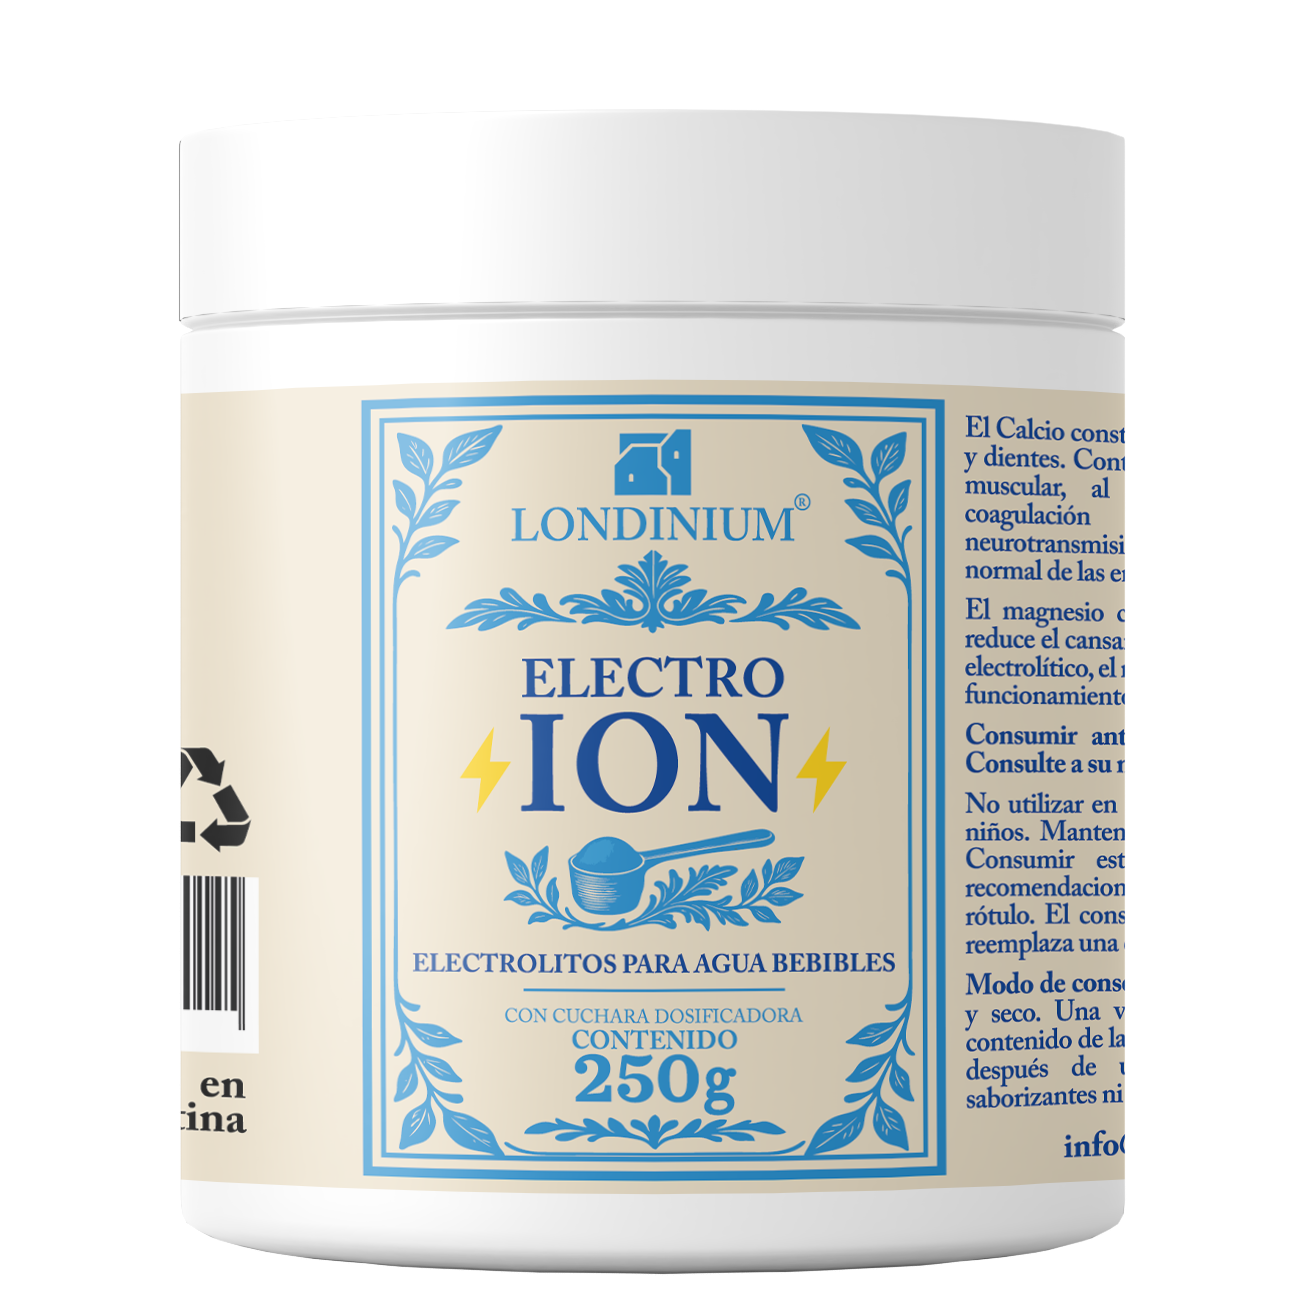
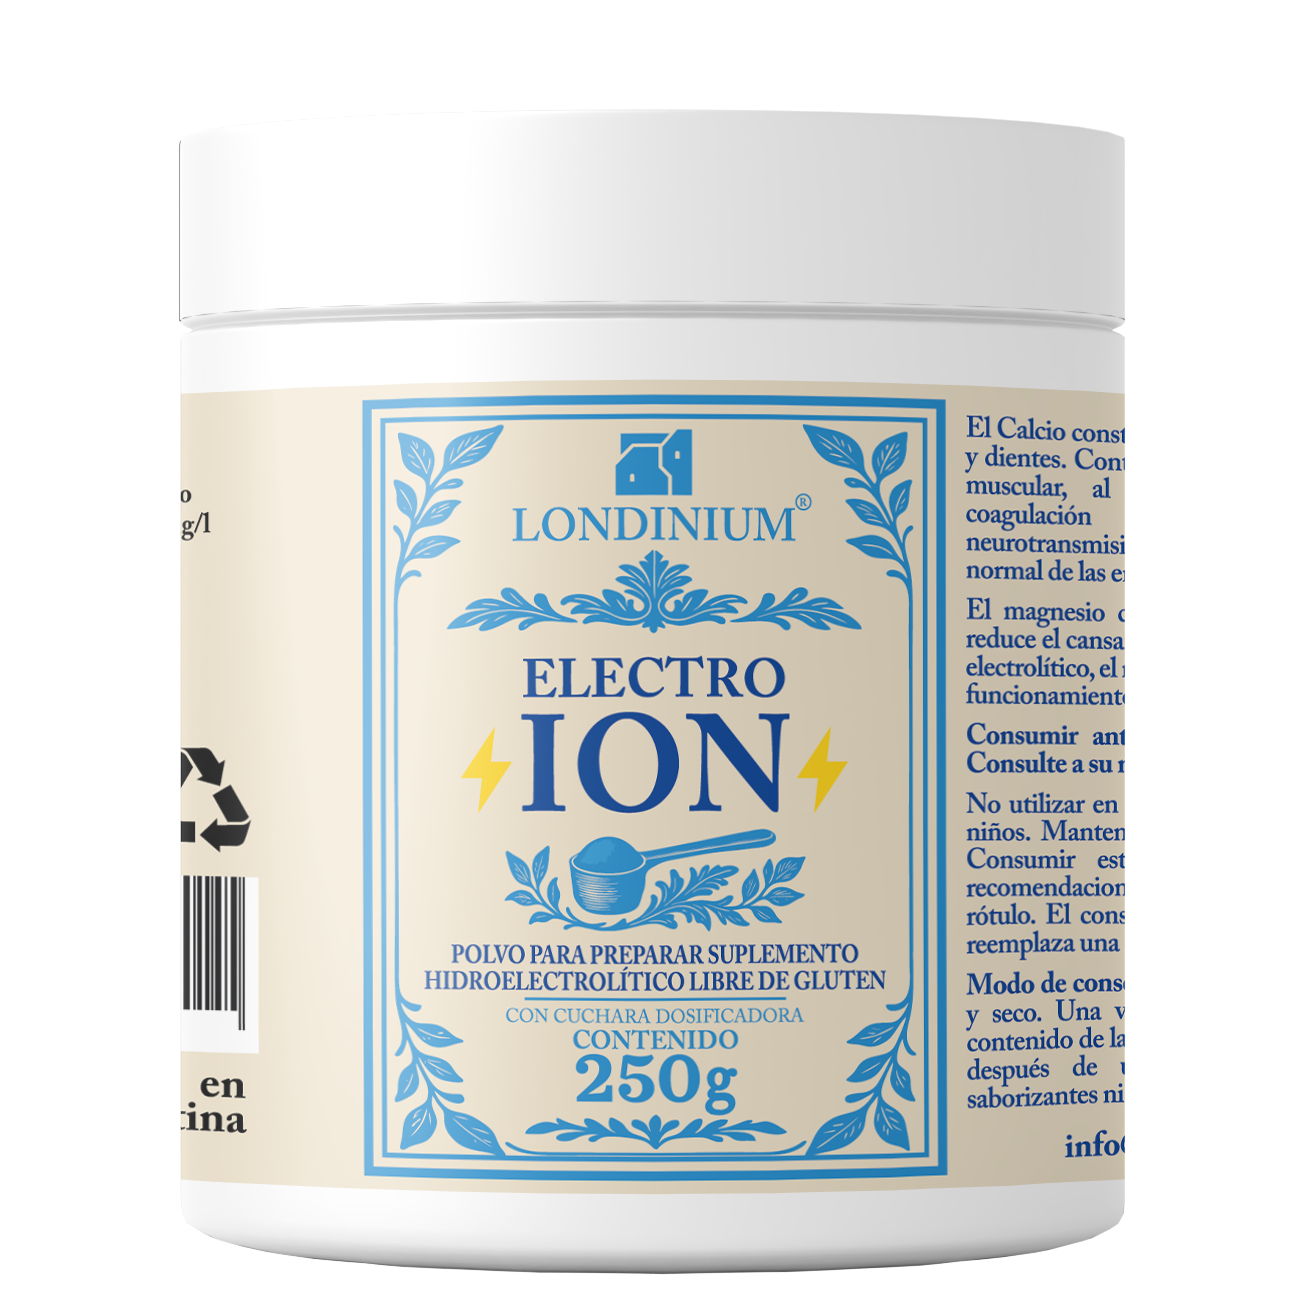
Modificación de la imagen de Electro Ion y de su tabla nutricional

diff --git a/products/electro-ion.html b/products/electro-ion.html
@@ -113,28 +113,23 @@
               </tr>
               <tr>
                 <td>Sodio</td>
-                <td class="text-center">0 g</td>
-                <td class="text-center">-</td>
-              </tr>
-              <tr>
-                <td>Cl Na</td>
                 <td class="text-center">45 mg</td>
-                <td class="text-center">-</td>
+                <td class="text-center">1 %</td>
               </tr>
               <tr>
                 <td>Cl K</td>
                 <td class="text-center">12 mg</td>
-                <td class="text-center">-</td>
+                <td class="text-center">0 %</td>
               </tr>
               <tr>
                 <td>Cl Ca</td>
                 <td class="text-center">2 mg</td>
-                <td class="text-center">-</td>
+                <td class="text-center">0 %</td>
               </tr>
               <tr>
                 <td>Mg Cl</td>
                 <td class="text-center">1 mg</td>
-                <td class="text-center">-</td>
+                <td class="text-center">0 %</td>
               </tr>
               <tr>
                 <td colspan="3" class="py-2">
